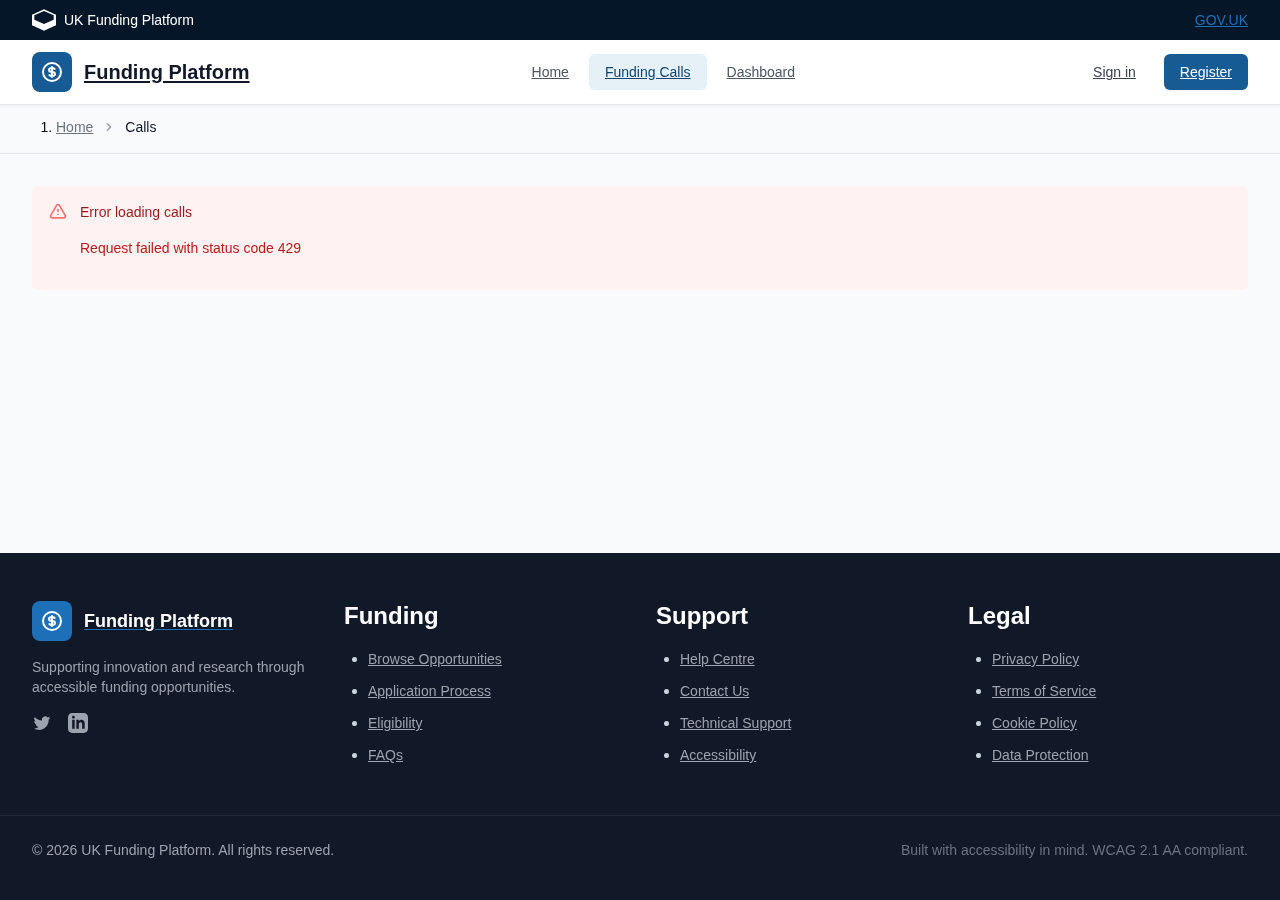
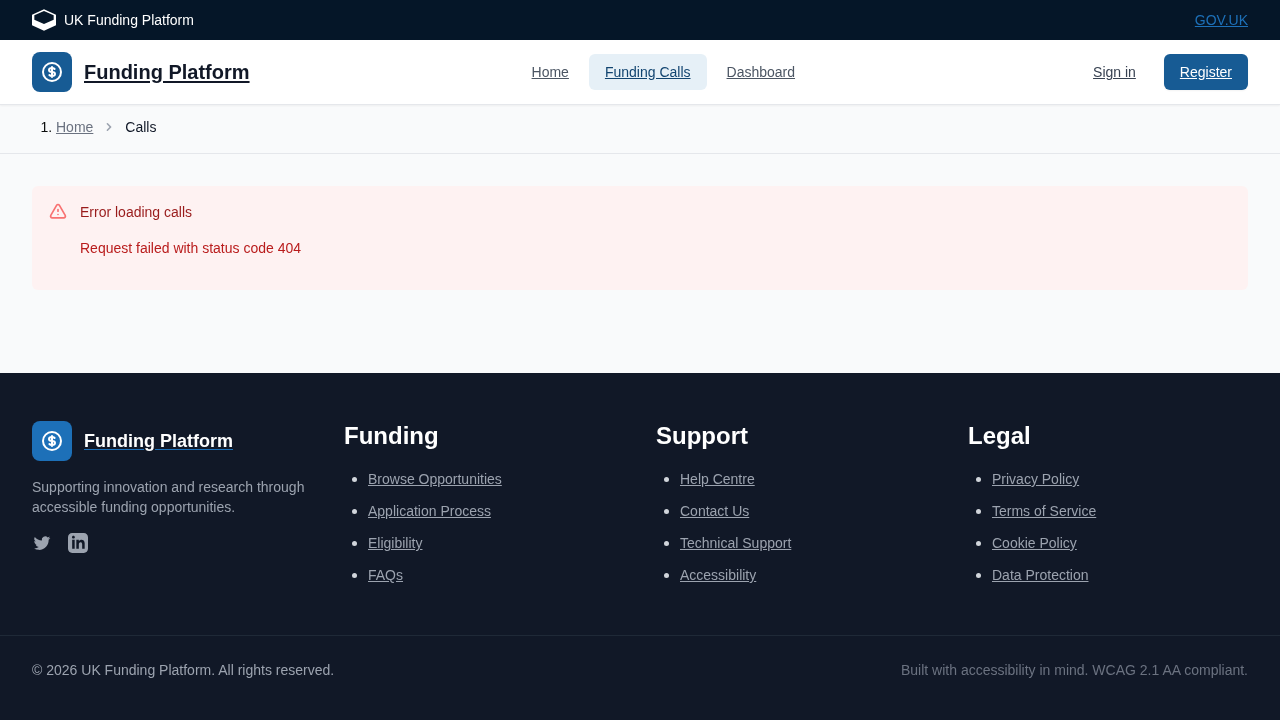
Update README, screenshots, and demo data fallback
- README: Add live demo URL, Nostr DID auth docs, jjohare as admin,
  updated tech stack, deployment section, CI/CD table
- Screenshots: Refreshed captures for homepage, coordinator dashboard,
  login, and AI settings pages
- useCalls: Fall back to demo data when API unavailable (GitHub Pages)

diff --git a/frontend/src/hooks/useCalls.ts b/frontend/src/hooks/useCalls.ts
@@ -76,9 +76,10 @@ export function useOpenCalls(): UseOpenCallsReturn {
     try {
       const data = await callsApi.getOpenCalls();
       setCalls(data);
-    } catch (err) {
-      const message = err instanceof Error ? err.message : 'Failed to fetch calls';
-      setError(message);
+    } catch {
+      // Fallback to demo data when API is unavailable
+      const openDemoCalls = DEMO_CALLS.filter(c => c.status === CallStatus.OPEN);
+      setCalls(openDemoCalls);
     } finally {
       setIsLoading(false);
     }

diff --git a/README.md b/README.md
@@ -8,6 +8,8 @@ A comprehensive, enterprise-grade platform for managing funding calls, applicati
 [![Node.js](https://img.shields.io/badge/Node.js-20+-green.svg)](https://nodejs.org/)
 [![PostgreSQL](https://img.shields.io/badge/PostgreSQL-15-blue.svg)](https://www.postgresql.org/)
 
+> **[Live Demo](https://dreamlab-ai.github.io/funding-platform/)** -- Browse the frontend SPA deployed on GitHub Pages.
+
 ## Overview
 
 This platform provides a complete solution for organizations managing competitive funding programs, research grants, or any application-based selection process. It supports the entire lifecycle from call creation through application submission, expert assessment, and final results aggregation.
@@ -122,10 +124,10 @@ flowchart TB
 ### Frontend
 - **React 18** with TypeScript
 - **Vite** for fast development and builds
-- **React Query** for data fetching and caching
+- **TanStack Query** (React Query) for data fetching and caching
 - **React Router** for navigation
+- **Tailwind CSS** + **Headless UI** for styling and accessible components
 - **React Hook Form** + **Zod** for form validation
-- **Custom Design System** with CSS custom properties
 - **WASM/Rust** visualizations using `plotters-canvas`
 
 ### Backend
@@ -133,7 +135,7 @@ flowchart TB
 - **TypeScript** with strict mode
 - **PostgreSQL 15** with UUID primary keys
 - **Redis** for session management and caching
-- **JWT** + **Nostr DID** authentication
+- **JWT** + **Nostr** authentication (NIP-07 browser extension, NIP-05 verification, DID:nostr identity)
 - **Zod** for API validation
 - **Winston** for structured logging
 
@@ -144,11 +146,12 @@ flowchart TB
 - **LM Studio** (local inference)
 - **Custom endpoints** (configurable)
 
-### Infrastructure
-- **Docker** + **Docker Compose**
-- **Kubernetes** manifests
-- **GitHub Actions** CI/CD
-- **Terraform** infrastructure as code
+### Infrastructure & Deployment
+- **GitHub Pages** for frontend SPA deployment (auto-deploy on push to main)
+- **Kubernetes** for backend services (manual workflow_dispatch deployment)
+- **Docker** + **Docker Compose** for local development
+- **GitHub Actions** CI/CD (CI Pipeline, Security Scan, Pages Deploy, K8s Deploy)
+- **Vite** base path auto-configured for GitHub Pages subpath
 - **Prometheus** + **Grafana** monitoring
 
 ## Quick Start
@@ -481,7 +484,9 @@ POST /api/v1/ai/similarity          # Find similar applications
 
 ## Nostr DID Authentication
 
-The platform supports decentralized identity through the Nostr protocol:
+The platform uses Nostr-based decentralized identity as its primary authentication mechanism. Users sign in via a **NIP-07 compatible browser extension** (e.g., Alby, nos2x), which provides cryptographic key management without passwords. Each user's identity is represented as a **DID:nostr** identifier derived from their public key, and optionally verified through **NIP-05** DNS-based verification (e.g., `user@example.com`).
+
+The admin/coordinator user is **jjohare** (GitHub contributor and repository owner).
 
 ```typescript
 // Generate or import Nostr keys
@@ -770,21 +775,36 @@ flowchart TB
     style Monitoring fill:#fff3e0,stroke:#e65100
 ```
 
-### Docker Production
+### GitHub Pages (Frontend)
+
+The frontend SPA deploys automatically to GitHub Pages on every push to `main`. The Vite build is configured to use the correct base path (`/funding-platform/`) for the GitHub Pages subpath.
+
+- **Trigger**: Push to `main` branch
+- **URL**: [https://dreamlab-ai.github.io/funding-platform/](https://dreamlab-ai.github.io/funding-platform/)
+- **Workflow**: `.github/workflows/pages-deploy.yml`
+
+### Kubernetes (Backend)
+
+Backend deployment to Kubernetes is triggered manually via `workflow_dispatch`:
 
 ```bash
-docker-compose -f docker-compose.prod.yml up -d
-```
+# Manual deployment via GitHub Actions UI or CLI
+gh workflow run k8s-deploy.yml
 
-### Kubernetes
-
-```bash
+# Or apply manifests directly
 kubectl apply -f k8s/namespace.yaml
 kubectl apply -f k8s/configmap.yaml
 kubectl apply -f k8s/secrets.yaml
 kubectl apply -f k8s/deployment.yaml
 kubectl apply -f k8s/service.yaml
 kubectl apply -f k8s/ingress.yaml
+```
+
+### Docker (Local Development)
+
+```bash
+docker-compose up -d
+docker-compose -f docker-compose.prod.yml up -d
 ```
 
 ## Environment Variables
@@ -806,12 +826,12 @@ See `.env.example` for complete configuration.
 
 The project uses GitHub Actions for continuous integration and deployment:
 
-| Workflow | Trigger | Status |
-|----------|---------|--------|
+| Workflow | Trigger | Description |
+|----------|---------|-------------|
 | **CI Pipeline** | Push to main/develop, PRs | Build, test, lint, security scan |
-| **GitHub Pages** | Push to main (frontend changes) | Auto-deploy SPA to Pages |
+| **Pages Deploy** | Push to main | Auto-deploy frontend SPA to GitHub Pages |
 | **Security Scan** | Push, PRs, weekly schedule | CodeQL, Trivy, Semgrep, Gitleaks |
-| **Deploy** | Push to main/develop | Kubernetes staging/production |
+| **K8s Deploy** | Manual (workflow_dispatch) | Kubernetes backend deployment |
 
 **Live Demo**: [https://dreamlab-ai.github.io/funding-platform/](https://dreamlab-ai.github.io/funding-platform/)
 
